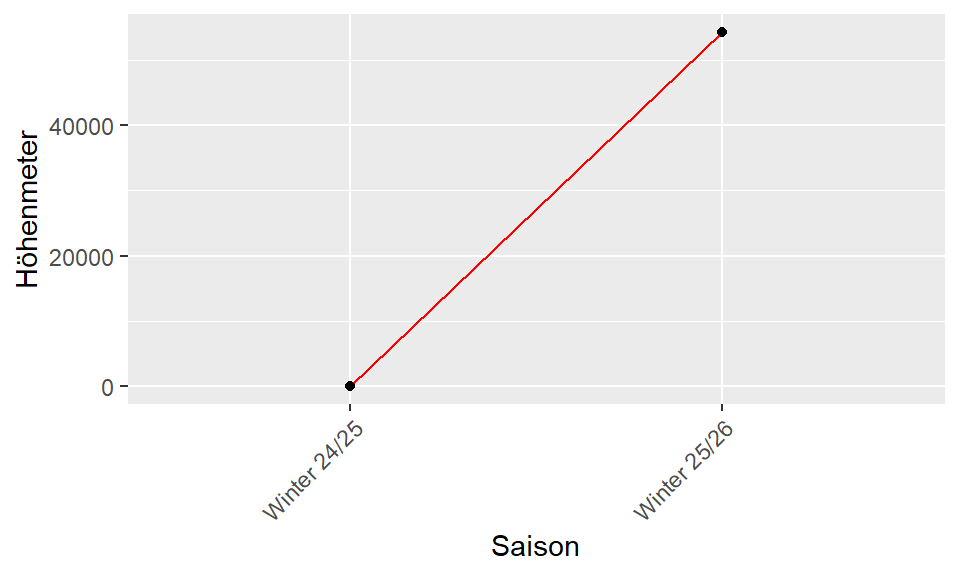
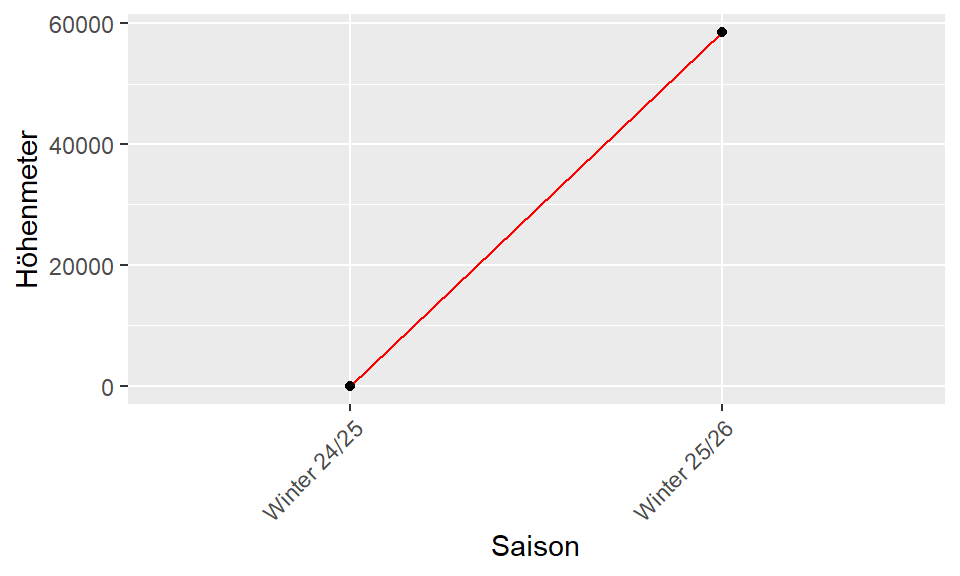
update

Changed region(s): [[0.0312, 0.1875, 0.125, 0.2812], [0.0312, 0.4375, 0.125, 0.5], [0.0312, 0.0312, 0.125, 0.0625]]

diff --git a/docs/skifahren.html b/docs/skifahren.html
@@ -7,7 +7,7 @@
 <meta name="viewport" content="width=device-width, initial-scale=1.0, user-scalable=yes">
 
 <meta name="author" content="Kaspar Rufibach">
-<meta name="dcterms.date" content="2026-01-14">
+<meta name="dcterms.date" content="2026-01-15">
 
 <title>Sport Kaspar - Skifahren</title>
 <style>
@@ -204,7 +204,7 @@ ul.task-list li input[type="checkbox"] {
     <div>
     <div class="quarto-title-meta-heading">Published</div>
     <div class="quarto-title-meta-contents">
-      <p class="date">January 14, 2026</p>
+      <p class="date">January 15, 2026</p>
     </div>
   </div>
   
@@ -265,9 +265,9 @@ ul.task-list li input[type="checkbox"] {
 </tr>
 <tr class="even">
 <td style="text-align: center;">Winter 25/26</td>
-<td style="text-align: center;">13</td>
-<td style="text-align: center;">54351</td>
-<td style="text-align: center;">4181</td>
+<td style="text-align: center;">14</td>
+<td style="text-align: center;">58559</td>
+<td style="text-align: center;">4183</td>
 </tr>
 </tbody>
 </table>
@@ -417,6 +417,15 @@ ul.task-list li input[type="checkbox"] {
 <td style="text-align: center;"></td>
 <td style="text-align: center;">NA</td>
 </tr>
+<tr class="even">
+<td style="text-align: center;">14</td>
+<td style="text-align: center;">Hasliberg</td>
+<td style="text-align: center;"></td>
+<td style="text-align: center;">2026-01-15</td>
+<td style="text-align: center;">4208</td>
+<td style="text-align: center;"></td>
+<td style="text-align: center;">NA</td>
+</tr>
 </tbody>
 </table>
 </div>
@@ -504,8 +513,8 @@ ul.task-list li input[type="checkbox"] {
 <td style="text-align: center;">7</td>
 <td style="text-align: center;">Hasliberg</td>
 <td style="text-align: center;"></td>
-<td style="text-align: center;">2025-12-19</td>
-<td style="text-align: center;">4125</td>
+<td style="text-align: center;">2026-01-15</td>
+<td style="text-align: center;">4208</td>
 <td style="text-align: center;"></td>
 <td style="text-align: center;">NA</td>
 </tr>
@@ -513,8 +522,8 @@ ul.task-list li input[type="checkbox"] {
 <td style="text-align: center;">8</td>
 <td style="text-align: center;">Hasliberg</td>
 <td style="text-align: center;"></td>
-<td style="text-align: center;">2026-01-04</td>
-<td style="text-align: center;">4072</td>
+<td style="text-align: center;">2025-12-19</td>
+<td style="text-align: center;">4125</td>
 <td style="text-align: center;"></td>
 <td style="text-align: center;">NA</td>
 </tr>
@@ -522,8 +531,8 @@ ul.task-list li input[type="checkbox"] {
 <td style="text-align: center;">9</td>
 <td style="text-align: center;">Hasliberg</td>
 <td style="text-align: center;"></td>
-<td style="text-align: center;">2026-01-06</td>
-<td style="text-align: center;">3647</td>
+<td style="text-align: center;">2026-01-04</td>
+<td style="text-align: center;">4072</td>
 <td style="text-align: center;"></td>
 <td style="text-align: center;">NA</td>
 </tr>
@@ -531,8 +540,8 @@ ul.task-list li input[type="checkbox"] {
 <td style="text-align: center;">10</td>
 <td style="text-align: center;">Hasliberg</td>
 <td style="text-align: center;"></td>
-<td style="text-align: center;">2026-01-07</td>
-<td style="text-align: center;">3494</td>
+<td style="text-align: center;">2026-01-06</td>
+<td style="text-align: center;">3647</td>
 <td style="text-align: center;"></td>
 <td style="text-align: center;">NA</td>
 </tr>
@@ -540,8 +549,8 @@ ul.task-list li input[type="checkbox"] {
 <td style="text-align: center;">11</td>
 <td style="text-align: center;">Hasliberg</td>
 <td style="text-align: center;"></td>
-<td style="text-align: center;">2025-12-23</td>
-<td style="text-align: center;">3158</td>
+<td style="text-align: center;">2026-01-07</td>
+<td style="text-align: center;">3494</td>
 <td style="text-align: center;"></td>
 <td style="text-align: center;">NA</td>
 </tr>
@@ -549,13 +558,22 @@ ul.task-list li input[type="checkbox"] {
 <td style="text-align: center;">12</td>
 <td style="text-align: center;">Hasliberg</td>
 <td style="text-align: center;"></td>
-<td style="text-align: center;">2025-12-28</td>
-<td style="text-align: center;">2444</td>
+<td style="text-align: center;">2025-12-23</td>
+<td style="text-align: center;">3158</td>
 <td style="text-align: center;"></td>
 <td style="text-align: center;">NA</td>
 </tr>
 <tr class="odd">
 <td style="text-align: center;">13</td>
+<td style="text-align: center;">Hasliberg</td>
+<td style="text-align: center;"></td>
+<td style="text-align: center;">2025-12-28</td>
+<td style="text-align: center;">2444</td>
+<td style="text-align: center;"></td>
+<td style="text-align: center;">NA</td>
+</tr>
+<tr class="even">
+<td style="text-align: center;">14</td>
 <td style="text-align: center;">Hasliberg</td>
 <td style="text-align: center;"></td>
 <td style="text-align: center;">2025-12-25</td>

diff --git a/docs/summary_winter.html b/docs/summary_winter.html
@@ -7,7 +7,7 @@
 <meta name="viewport" content="width=device-width, initial-scale=1.0, user-scalable=yes">
 
 <meta name="author" content="Kaspar Rufibach">
-<meta name="dcterms.date" content="2026-01-14">
+<meta name="dcterms.date" content="2026-01-15">
 
 <title>Sport Kaspar - Zusammenfassung Wintersaison</title>
 <style>
@@ -197,7 +197,7 @@ ul.task-list li input[type="checkbox"] {
     <div>
     <div class="quarto-title-meta-heading">Published</div>
     <div class="quarto-title-meta-contents">
-      <p class="date">January 14, 2026</p>
+      <p class="date">January 15, 2026</p>
     </div>
   </div>
   
@@ -228,7 +228,7 @@ ul.task-list li input[type="checkbox"] {
 </tr>
 <tr class="even">
 <td style="text-align: center;">Alpinski</td>
-<td style="text-align: center;">13</td>
+<td style="text-align: center;">14</td>
 </tr>
 <tr class="odd">
 <td style="text-align: center;">Langlauf</td>
@@ -236,7 +236,7 @@ ul.task-list li input[type="checkbox"] {
 </tr>
 <tr class="even">
 <td style="text-align: center;">Total</td>
-<td style="text-align: center;">37</td>
+<td style="text-align: center;">38</td>
 </tr>
 </tbody>
 </table>

diff --git a/docs/zusammenfassungen.html b/docs/zusammenfassungen.html
@@ -7,7 +7,7 @@
 <meta name="viewport" content="width=device-width, initial-scale=1.0, user-scalable=yes">
 
 <meta name="author" content="Kaspar Rufibach">
-<meta name="dcterms.date" content="2026-01-14">
+<meta name="dcterms.date" content="2026-01-15">
 
 <title>Sport Kaspar - Zusammenfassungen Sport</title>
 <style>
@@ -199,7 +199,7 @@ ul.task-list li input[type="checkbox"] {
     <div>
     <div class="quarto-title-meta-heading">Published</div>
     <div class="quarto-title-meta-contents">
-      <p class="date">January 14, 2026</p>
+      <p class="date">January 15, 2026</p>
     </div>
   </div>
   
@@ -209,7 +209,7 @@ ul.task-list li input[type="checkbox"] {
 
 </header>
 
-<!-- Numbers labelled 2025 are linearly extrapolated from 2026-01-14 to the full year of 2024. -->
+<!-- Numbers labelled 2025 are linearly extrapolated from 2026-01-15 to the full year of 2024. -->
 <section id="jaehrliche-zusammenfassungen" class="level1" data-number="1">
 <h1 data-number="1"><span class="header-section-number">1</span> Jaehrliche Zusammenfassungen</h1>
 <div class="tabset-margin-container"></div><div class="panel-tabset nav-pills">

diff --git a/docs/kieser.html b/docs/kieser.html
@@ -7,7 +7,7 @@
 <meta name="viewport" content="width=device-width, initial-scale=1.0, user-scalable=yes">
 
 <meta name="author" content="Kaspar Rufibach">
-<meta name="dcterms.date" content="2026-01-14">
+<meta name="dcterms.date" content="2026-01-15">
 
 <title>Sport Kaspar - Kieser Training</title>
 <style>
@@ -199,7 +199,7 @@ ul.task-list li input[type="checkbox"] {
     <div>
     <div class="quarto-title-meta-heading">Published</div>
     <div class="quarto-title-meta-contents">
-      <p class="date">January 14, 2026</p>
+      <p class="date">January 15, 2026</p>
     </div>
   </div>
   

diff --git a/docs/travel.html b/docs/travel.html
@@ -7,7 +7,7 @@
 <meta name="viewport" content="width=device-width, initial-scale=1.0, user-scalable=yes">
 
 <meta name="author" content="Kaspar Rufibach">
-<meta name="dcterms.date" content="2026-01-14">
+<meta name="dcterms.date" content="2026-01-15">
 
 <title>Sport Kaspar - Tage im Ausland</title>
 <style>
@@ -191,7 +191,7 @@ ul.task-list li input[type="checkbox"] {
     <div>
     <div class="quarto-title-meta-heading">Published</div>
     <div class="quarto-title-meta-contents">
-      <p class="date">January 14, 2026</p>
+      <p class="date">January 15, 2026</p>
     </div>
   </div>
   

diff --git a/docs/bikerun.html b/docs/bikerun.html
@@ -7,7 +7,7 @@
 <meta name="viewport" content="width=device-width, initial-scale=1.0, user-scalable=yes">
 
 <meta name="author" content="Kaspar Rufibach">
-<meta name="dcterms.date" content="2026-01-14">
+<meta name="dcterms.date" content="2026-01-15">
 
 <title>Sport Kaspar - Bike and run</title>
 <style>
@@ -205,7 +205,7 @@ ul.task-list li input[type="checkbox"] {
     <div>
     <div class="quarto-title-meta-heading">Published</div>
     <div class="quarto-title-meta-contents">
-      <p class="date">January 14, 2026</p>
+      <p class="date">January 15, 2026</p>
     </div>
   </div>
   

diff --git a/docs/saisonstart.html b/docs/saisonstart.html
@@ -7,7 +7,7 @@
 <meta name="viewport" content="width=device-width, initial-scale=1.0, user-scalable=yes">
 
 <meta name="author" content="Kaspar Rufibach">
-<meta name="dcterms.date" content="2026-01-14">
+<meta name="dcterms.date" content="2026-01-15">
 
 <title>Sport Kaspar - Saisonstart</title>
 <style>
@@ -201,7 +201,7 @@ ul.task-list li input[type="checkbox"] {
     <div>
     <div class="quarto-title-meta-heading">Published</div>
     <div class="quarto-title-meta-contents">
-      <p class="date">January 14, 2026</p>
+      <p class="date">January 15, 2026</p>
     </div>
   </div>
   

diff --git a/docs/wettkaempfe.html b/docs/wettkaempfe.html
@@ -7,7 +7,7 @@
 <meta name="viewport" content="width=device-width, initial-scale=1.0, user-scalable=yes">
 
 <meta name="author" content="Kaspar Rufibach">
-<meta name="dcterms.date" content="2026-01-14">
+<meta name="dcterms.date" content="2026-01-15">
 
 <title>Sport Kaspar - Wettkaempfe</title>
 <style>
@@ -221,7 +221,7 @@ ul.task-list li input[type="checkbox"] {
     <div>
     <div class="quarto-title-meta-heading">Published</div>
     <div class="quarto-title-meta-contents">
-      <p class="date">January 14, 2026</p>
+      <p class="date">January 15, 2026</p>
     </div>
   </div>
   

diff --git a/docs/skitouren.html b/docs/skitouren.html
@@ -7,7 +7,7 @@
 <meta name="viewport" content="width=device-width, initial-scale=1.0, user-scalable=yes">
 
 <meta name="author" content="Kaspar Rufibach">
-<meta name="dcterms.date" content="2026-01-14">
+<meta name="dcterms.date" content="2026-01-15">
 
 <title>Sport Kaspar - Skitouren</title>
 <style>
@@ -259,7 +259,7 @@ ul.task-list li input[type="checkbox"] {
     <div>
     <div class="quarto-title-meta-heading">Published</div>
     <div class="quarto-title-meta-contents">
-      <p class="date">January 14, 2026</p>
+      <p class="date">January 15, 2026</p>
     </div>
   </div>
   

diff --git a/docs/langlauf.html b/docs/langlauf.html
@@ -7,7 +7,7 @@
 <meta name="viewport" content="width=device-width, initial-scale=1.0, user-scalable=yes">
 
 <meta name="author" content="Kaspar Rufibach">
-<meta name="dcterms.date" content="2026-01-14">
+<meta name="dcterms.date" content="2026-01-15">
 
 <title>Sport Kaspar - Langlauf</title>
 <style>
@@ -210,7 +210,7 @@ ul.task-list li input[type="checkbox"] {
     <div>
     <div class="quarto-title-meta-heading">Published</div>
     <div class="quarto-title-meta-contents">
-      <p class="date">January 14, 2026</p>
+      <p class="date">January 15, 2026</p>
     </div>
   </div>
   

diff --git a/docs/bike.html b/docs/bike.html
@@ -7,7 +7,7 @@
 <meta name="viewport" content="width=device-width, initial-scale=1.0, user-scalable=yes">
 
 <meta name="author" content="Kaspar Rufibach">
-<meta name="dcterms.date" content="2026-01-14">
+<meta name="dcterms.date" content="2026-01-15">
 
 <title>Sport Kaspar - Bike</title>
 <style>
@@ -270,7 +270,7 @@ ul.task-list li input[type="checkbox"] {
     <div>
     <div class="quarto-title-meta-heading">Published</div>
     <div class="quarto-title-meta-contents">
-      <p class="date">January 14, 2026</p>
+      <p class="date">January 15, 2026</p>
     </div>
   </div>
   

diff --git a/docs/hike.html b/docs/hike.html
@@ -7,7 +7,7 @@
 <meta name="viewport" content="width=device-width, initial-scale=1.0, user-scalable=yes">
 
 <meta name="author" content="Kaspar Rufibach">
-<meta name="dcterms.date" content="2026-01-14">
+<meta name="dcterms.date" content="2026-01-15">
 
 <title>Sport Kaspar - Hike</title>
 <style>
@@ -253,7 +253,7 @@ ul.task-list li input[type="checkbox"] {
     <div>
     <div class="quarto-title-meta-heading">Published</div>
     <div class="quarto-title-meta-contents">
-      <p class="date">January 14, 2026</p>
+      <p class="date">January 15, 2026</p>
     </div>
   </div>
   
